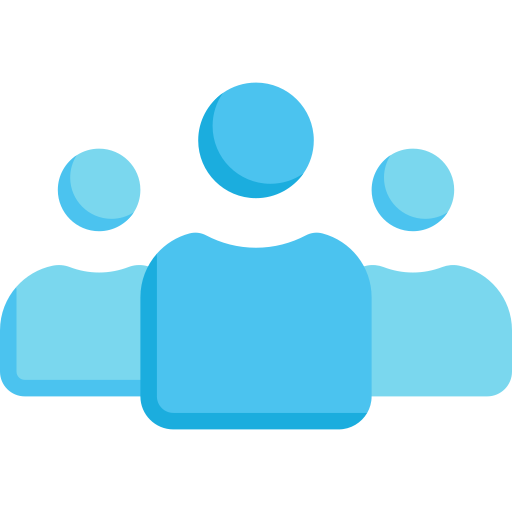
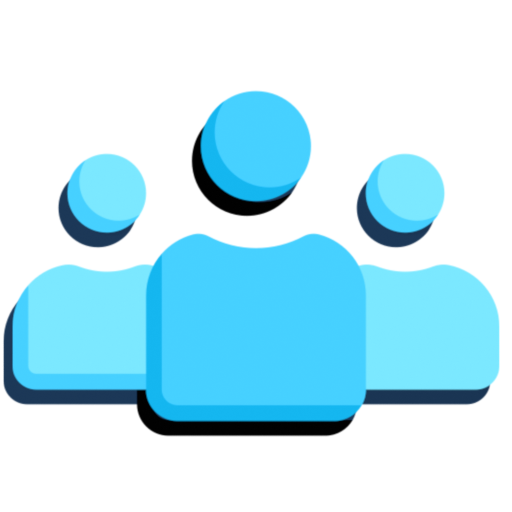
feat: update image source in Socials page and replace outdated image

diff --git a/HabiTrack/app/(app)/(tabs)/socials.tsx b/HabiTrack/app/(app)/(tabs)/socials.tsx
@@ -16,7 +16,7 @@ export default function SocialsPage() {
           width: '80%',
         }}>
         <Image
-          source={require('@/assets/images/socials4.png')}
+          source={require('@/assets/images/socials.png')}
           style={{ width: imageSize, height: imageSize, alignSelf: 'center' }}
         />
         <TextButton
